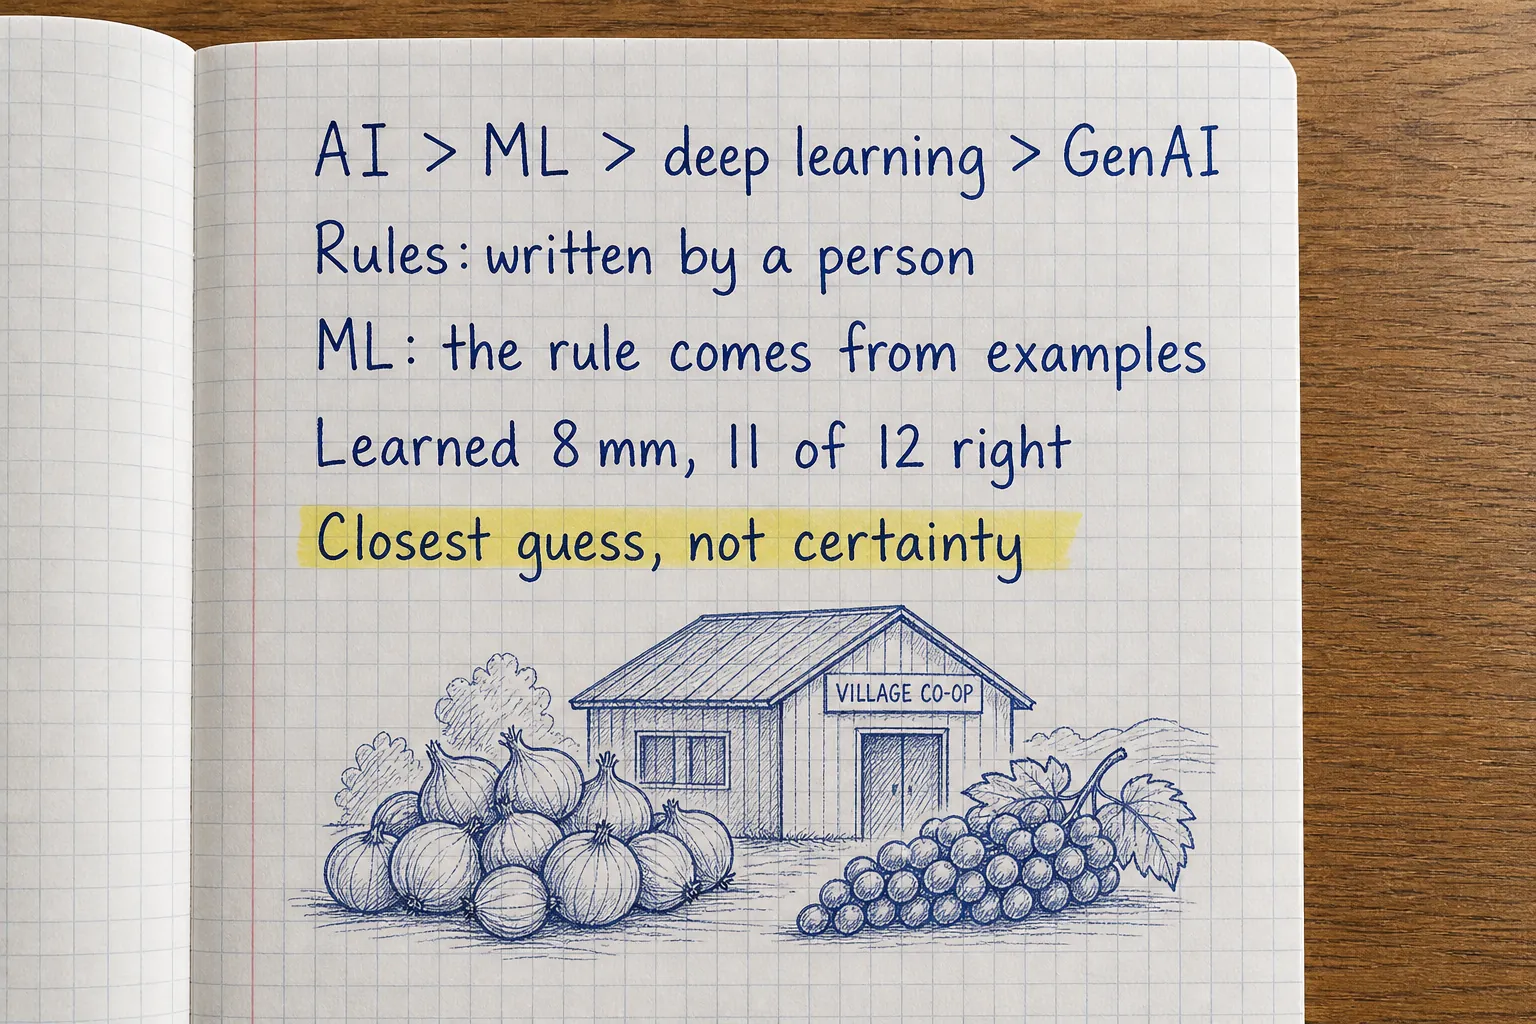
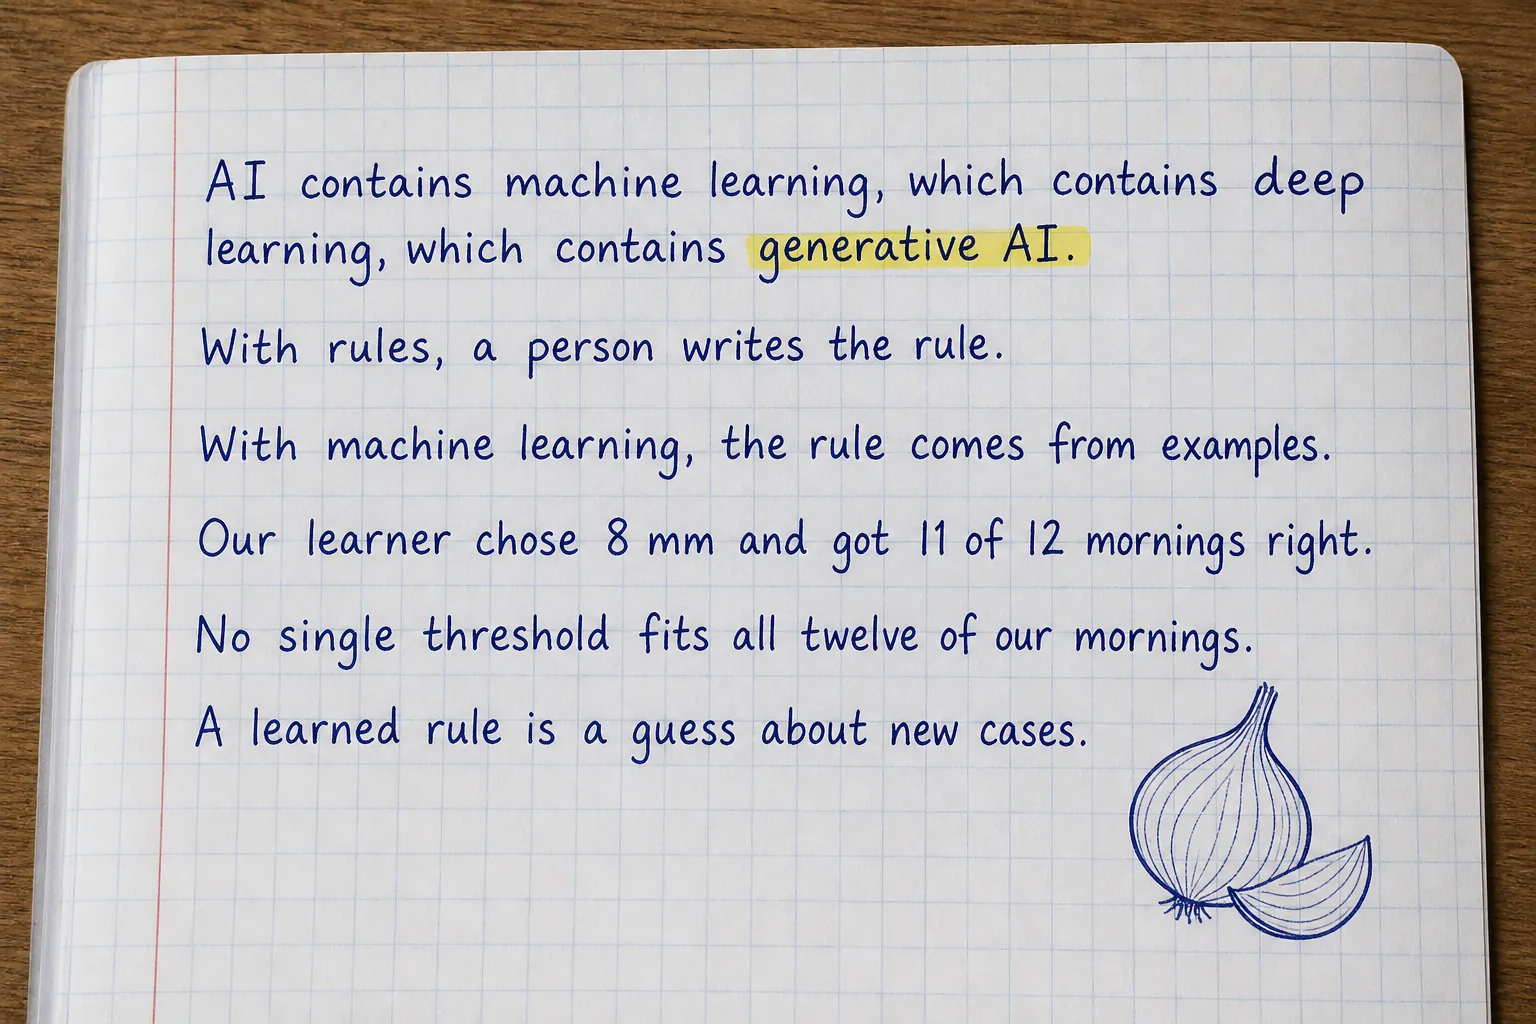
LangChain chapter 1 rewritten: plain and fuller, a still picture of the four fields, claims checked and corrected

diff --git a/frontend/src/lesson/Diagrams.tsx b/frontend/src/lesson/Diagrams.tsx
@@ -2290,19 +2290,30 @@ function LcChatRequest() {
 }
 
 function LcAiCircles() {
+  // Still (owner, 25 November): each field inside the one before, with this course's own example of each.
+  const rings: [number, string, string, string][] = [
+    [0, "Artificial intelligence", "any program doing something we call intelligent", "Navin's hand-written rules (this chapter)"],
+    [1, "Machine learning", "the rule is learned from examples", "the 8 mm rain threshold (this chapter)"],
+    [2, "Deep learning", "learning with neural networks of many layers", "spotting a sick grape leaf in a photo"],
+    [3, "Generative AI", "models that create new text, images or code", "writing a reply to a farmer"],
+  ];
+  const inset = 22, top = 70;
   return (
-    <SketchNested
-      title="circles inside circles"
-      intro="Press Play to go from the biggest circle to the smallest."
-      label="artificial intelligence contains machine learning, which contains deep learning, which contains generative AI; a large language model sits in the smallest circle"
-      steps={[
-        { label: "Artificial intelligence", says: "Any program doing something we would call intelligent: even Navin's hand-written rules." },
-        { label: "Machine learning", says: "The rule is learned from examples, not written: like the 8 mm rain threshold." },
-        { label: "Deep learning", says: "Machine learning with neural networks of many layers: telling a healthy grape leaf from a diseased one." },
-        { label: "Generative AI", says: "Deep learning models that create new text, images or code." },
-        { label: "LLM", says: "A large language model lives in the smallest circle: it is all four at once." },
-      ]}
-    />
+    <Svg viewBox="0 0 440 420" label="Artificial intelligence contains machine learning, which contains deep learning, which contains generative AI; a large language model sits inside generative AI">
+      {rings.map(([i, name, means, eg]) => {
+        const x = i * inset, y = i * top, w = 440 - 2 * x, h = 418 - y - i * 12;
+        return (
+          <g key={name}>
+            <g className={`dg-box dg-${i === 3 ? "accent" : i % 2 ? "copy" : "plain"}`}><rect x={x + 1} y={y + 1} width={w - 2} height={h - 2} rx={18} /></g>
+            <text className="dg-label" x={x + 14} y={y + 22}>{name}</text>
+            <text className="dg-note" x={x + 14} y={y + 40}>{means}</text>
+            <text className="dg-note" x={x + 14} y={y + 58} style={{ opacity: 0.75 }}>e.g. {eg}</text>
+          </g>
+        );
+      })}
+      <Box x={90} y={300} w={260} h={44} label="a large language model (Navin's)" tone="highlight" />
+      <text className="dg-note" x={220} y={364} textAnchor="middle">it sits in all four circles at once</text>
+    </Svg>
   );
 }
 

diff --git a/labs/langchain/chapters/01-ai-basics.md b/labs/langchain/chapters/01-ai-basics.md
@@ -6,13 +6,15 @@ four days after spraying?" Two people answer them, and on a harvest morning both
 In this course you build **Navin**, the co-op's help desk assistant. By the last chapter Navin answers members in
 plain words from the co-op's real facts and rules, uses tools to look up rates and book cold storage, reads a photo of
 a sick leaf, remembers each farmer, asks the manager before a big booking, and runs as a web service. You build it with
-**LangChain**, the most used Python library for applications that talk to language models.
+**LangChain**, one of the most widely used Python libraries for building applications on top of language models. A
+**language model** is a program trained on a huge amount of text to continue text: given words, it predicts what
+comes next. Chapter 2 shows exactly how.
 
 But first: what does it mean for a program to "understand" a question at all? This chapter answers that with two tiny
 programs, one written by hand and one that learns.
 
-
-Onions and garlic in baskets at a market in Nashik, the district at the centre of India's onion trade, where the members of Navin's (fictional) co-op farm.
+Onions and garlic in baskets at a market in Nashik, the district at the centre of India's onion trade, where the
+members of Navin's (fictional) co-op farm.
 
 :::photo{src="/lesson-images/langchain/onion-seller-nashik.webp" alt="Round baskets heaped with red onions and white garlic at a street market, with red plastic crates behind" credit="AnantGujratiwtn" license="CC BY-SA 4.0" source="https://commons.wikimedia.org/wiki/File%3AOnion_seller_in_nashik.jpg"}
 Onions and garlic for sale in Nashik.
@@ -24,36 +26,46 @@ exactly where each one breaks.
 :::
 
 :::step{type=concept title="Four words, one inside the other"}
-People use four words as if they meant the same thing. They do not:
+People use four words as if they meant the same thing. They do not; each one sits inside the one before:
 
 | Word | Means | A co-op example |
 |---|---|---|
 | **Artificial intelligence (AI)** | Any program doing something we would call intelligent | A program that answers "office hours" questions with rules |
 | **Machine learning (ML)** | The program learns its rule from examples instead of being told | Learning from past mornings how much rain means "skip irrigation" |
-| **Deep learning** | Machine learning with neural networks of many layers | Recognising a diseased grape leaf in a photo |
+| **Deep learning** | Machine learning with **neural networks** of many layers | Recognising a diseased grape leaf in a photo |
 | **Generative AI** | Deep learning models that create new text, images or code | Writing a reply to a farmer's question in plain Marathi or English |
 
+A **neural network** is a program made of many small calculations connected in **layers**: each layer takes numbers
+in, multiplies them by learned values, and passes the result on. "Learning" means adjusting those values until the
+network's answers on the examples are good. "Deep" simply means many layers.
+
 :::diagram{name="lc-ai-circles"}
-AI is the biggest circle; machine learning sits inside it, deep learning inside that, and generative AI at the centre.
+Each circle sits inside the one before. A large language model, like the one behind Navin, is in the smallest circle,
+so it is all four at once.
 :::
 
 The step that matters most is the first one, from AI to machine learning: **who writes the rule**. In a rule-based
 program you write `if "rate" in message`. In machine learning you give examples and the program finds the rule. The
-language model behind Navin is the far end of that idea: nobody wrote a single rule about onions; it learned language
-from a large part of the internet.
+language model behind Navin is the far end of that idea: nobody wrote a single rule about onions; it learned from
+huge amounts of text, much of it from the web.
 :::
 
 :::step{type=history title="From checkers to ChatGPT"}
 :::before{title="Every rule by hand"}
-The name **artificial intelligence** was coined for a summer workshop at Dartmouth College in **1956**. For decades
-most AI was rules, typed by experts, and every situation nobody had a rule for simply had no answer.
+The name **artificial intelligence** was coined in John McCarthy's 1955 proposal for a summer workshop at Dartmouth
+College, held in **1956**. For decades most AI was rules, typed by experts, and every situation nobody had a rule for
+simply had no answer.
 :::
 
-In **1959** Arthur Samuel at IBM described a program that played checkers better the more games it played, and gave
-the idea its name: **machine learning**, "the field of study that gives computers the ability to learn without being
-explicitly programmed". In **2012** a neural network called **AlexNet**, by Alex Krizhevsky, Ilya Sutskever and Geoffrey
-Hinton, won the ImageNet image-recognition contest by a wide margin, and deep learning took over. On **30 November
-2022** OpenAI released **ChatGPT**, and generative AI reached a hundred million people within weeks.
+In **1959** Arthur Samuel at IBM published "Some Studies in **Machine Learning** Using the Game of Checkers", about a
+program that played checkers better the more games it played. That paper made the name stick. (The famous definition,
+"the ability to learn without being explicitly programmed", is a later summary of his idea, not a sentence from the
+paper.)
+
+In **2012** a neural network called **AlexNet**, by Alex Krizhevsky, Ilya Sutskever and Geoffrey Hinton, won the
+ImageNet image-recognition contest by a wide margin, and deep learning took over. On **30 November 2022** OpenAI
+released **ChatGPT**; by an estimate from the bank UBS it had about a hundred million users two months later, faster
+than any app before it.
 
 :::solved
 **Rules nobody has to write.** Learned rules cover cases no person listed, which is why Navin will understand "kanda
@@ -62,19 +74,21 @@ measures again and again.
 :::
 
 :::timeline
-- **1956** "Artificial intelligence" named at Dartmouth.
-- **1959** Arthur Samuel names "machine learning".
+- **1956** The Dartmouth workshop names "artificial intelligence".
+- **1959** Arthur Samuel's checkers paper names "machine learning".
 - **2012** AlexNet: deep learning wins ImageNet.
 - **2022** ChatGPT.
 :::
 
-**Geoffrey Hinton**, one of the three authors of AlexNet, shared the 2024 Nobel Prize in Physics for the work that made neural networks learn.
+**Geoffrey Hinton**, one of the three authors of AlexNet, shared the 2024 Nobel Prize in Physics with John Hopfield,
+"for foundational discoveries and inventions that enable machine learning with artificial neural networks".
 
 :::photo{src="/lesson-images/langchain/geoffrey-hinton.webp" alt="Geoffrey Hinton, grey-haired, in a dark jacket, speaking at a press conference" credit="Arthur Petron" license="CC BY-SA 4.0" source="https://commons.wikimedia.org/wiki/File%3AGeoffrey_E._Hinton%2C_2024_Nobel_Prize_Laureate_in_Physics_%28cropped1%29.jpg"}
 Geoffrey Hinton at the 2024 Nobel Prize press conference.
 :::
 
-Arthur Samuel's checkers program, the one that gave machine learning its name, ran on an **IBM 701**, IBM's first commercial scientific computer (1952). This is its operator's console.
+Arthur Samuel's checkers program, the one in that 1959 paper, first ran on an **IBM 701**, IBM's first commercial
+scientific computer (1952). This is its operator's console.
 
 :::photo{src="/lesson-images/langchain/ibm-701.webp" alt="The grey operator's console of an IBM 701 computer, with rows of small lights and push buttons" credit="Dan" license="CC BY 2.0" source="https://commons.wikimedia.org/wiki/File%3AIBM_701console.jpg"}
 The operator's console of an IBM 701.
@@ -92,28 +106,50 @@ def loan_reply(message: str) -> str:
     return "Sorry, I only know about loans."
 ```
 
-Lower-casing first is the one trick rules always need: people type however they like.
+Line by line:
+
+- `message.lower()` makes a lower-case copy, so the rule matches however the person typed. Nearly every word rule
+  needs this.
+- `"loan" in text` is True when the text contains the letters "loan" anywhere (so "loans" matches too).
+- `or` means either word is enough.
+- The last `return` is the answer when no rule matched: a rule-based program needs one for everything it does not know.
+
+(The loan figures are made up for this example.)
 :::
 
 :::step{type=task task=rule_reply title="Your turn: a rule-based help desk" file="01-ai-basics/rules.py" line="8-11"}
-Finish `rule_reply(message)`: lower-case the message; if it mentions `office` or `open`, return `OFFICE`; if it mentions
-`price` or `rate`, return `ONION`; otherwise return `UNKNOWN`.
+Finish `rule_reply(message)`:
+
+1. Lower-case the message.
+2. If it mentions `office` or `open`, return `OFFICE`.
+3. Else, if it mentions `price` or `rate`, return `ONION`.
+4. Otherwise return `UNKNOWN`.
+
+`OFFICE`, `ONION` and `UNKNOWN` are already defined at the top of the file.
+
+The usual slips:
+
+- Checking the message before lower-casing it: "What is the RATE?" then finds nothing.
+- Returning the strings `"OFFICE"` (in quotes) instead of the names `OFFICE`: the farmer would get the word "OFFICE".
 
 Press **Check**.
 :::
 
 :::step{type=concept title="Learning a rule from examples" file="01-ai-basics/learn.py" line="7-20"}
-Now the other way. `EXAMPLES` holds twelve real-looking mornings: millimetres of rain overnight, and whether the farmer
-skipped irrigating that day. The rule we want has the shape "skip when rain >= *threshold*", but nobody knows the
-threshold.
+Now the other way. `EXAMPLES` holds twelve made-up mornings: millimetres of rain overnight, and whether the farmer
+skipped irrigating that day. The rule we want has the shape "skip when rain >= *threshold*", where the **threshold**
+is the dividing line. Nobody knows it yet.
 
 So the program **tries every candidate** and keeps the one that explains the examples best. `accuracy(threshold,
-examples)` (already written) counts how many examples a threshold gets right:
+examples)` (already written) counts the share of examples a threshold gets right; that share is its **accuracy**.
+Some of the real values, from the lab's own code:
 
 | Threshold | Gets right | Accuracy |
 |---|---|---|
 | 5 mm | 9 of 12 | 75% |
+| 6 mm | 10 of 12 | 83% |
 | 8 mm | 11 of 12 | 92% |
+| 9 mm | 10 of 12 | 83% |
 | 11 mm | 11 of 12 | 92% |
 
 8 and 11 tie. Our tie-break is "keep the smaller one". That is a choice a person makes, and real machine learning is
@@ -121,8 +157,16 @@ full of such choices: which examples, which shape of rule, what counts as best.
 :::
 
 :::step{type=task task=learn_threshold title="Your turn: learn the threshold" file="01-ai-basics/learn.py" line="17-20"}
-Finish `learn_threshold(examples)`: try every rain value in the examples (sorted, smallest first) as a threshold, keep
-the one with the highest `accuracy(...)`, and on a tie keep the smaller one.
+Finish `learn_threshold(examples)`:
+
+1. Make the list of candidates: every rain value in the examples, sorted, smallest first.
+2. For each candidate, compute `accuracy(candidate, examples)`.
+3. Keep the candidate with the highest accuracy. On a tie, keep the one you found first, which is the smaller one
+   because the list is sorted.
+4. Return it.
+
+The usual slip: replacing the best on a tie (`>=` instead of `>` when comparing), which keeps the larger threshold,
+11 mm.
 
 ```bash run
 cd /workspace/01-ai-basics && python main.py
@@ -146,8 +190,9 @@ The rules answered the two questions someone thought of, and failed both others:
 hours, and "kanda bhav?" is Marathi for "onion price?", but neither contains a word in a rule. You could add more rules
 forever.
 
-The learner found 8 mm by itself, and is right on 11 of the 12 mornings. The twelfth (9 mm, not skipped) no line can
-explain: real data always has exceptions. A threshold learned from twelve mornings is a guess about the thirteenth.
+The learner found 8 mm by itself, and is right on 11 of the 12 mornings. The one it gets wrong is the 9 mm morning when
+the farmer did not skip. No single threshold gets all twelve right: real data has exceptions. A threshold learned from
+twelve mornings is a guess about the thirteenth.
 :::
 
 :::step{type=predict title="Guess first"}
@@ -191,24 +236,24 @@ A language model is learning taken to the extreme: billions of examples instead 
 policy, a legal limit. Navin will learn to send those to plain Python (tools, chapter 12) and use the model for
 language.
 
-**Overfitting.** A rule that fits twelve examples perfectly may fail on the thirteenth. Machine learning tests a rule
-on examples it did not learn from; chapter 26 does the same for Navin's answers.
+**Overfitting.** A rule that fits its examples perfectly may fail on new ones; that is called overfitting. Machine
+learning tests a rule on examples it did not learn from; chapter 26 does the same for Navin's answers.
 
-**Where the twelve mornings come from.** In real projects, collecting good examples is most of the work. A learned
-rule is only as good as its examples.
+**Where the examples come from.** In real projects, collecting good examples is most of the work. A learned rule is
+only as good as its examples.
 :::
 
 :::step{type=recap}
 You can now:
 
-- tell AI, machine learning, deep learning and generative AI apart;
+- tell AI, machine learning, deep learning and generative AI apart, and say what a neural network is;
 - write a rule-based reply, and say why it breaks;
 - learn a rule from examples by trying candidates and measuring accuracy;
 - explain why a language model needs no rule for "kanda bhav?".
 
 Next, chapter 2: what a model actually reads. Not words, but tokens.
 
-:::photo{src="/lesson-images/langchain/lc-01-notes.webp" alt="Handwritten notes about AI and machine learning: AI > ML > deep learning > GenAI; Rules: written by a person; ML: the rule comes from examples; Learned 8 mm, 11 of 12 right; Closest guess, not certainty" ai="true"}
+:::photo{src="/lesson-images/langchain/lc-01-notes.webp" alt="Handwritten notes about AI and machine learning: AI contains machine learning, which contains deep learning, which contains generative AI. With rules, a person writes the rule. With machine learning, the rule comes from examples. Our learner chose 8 mm and got 11 of 12 mornings right. No single threshold fits all twelve of our mornings. A learned rule is a guess about new cases." ai="true"}
 One page of notes for this chapter.
 :::
 :::

diff --git a/CHANGELOG.md b/CHANGELOG.md
@@ -1,5 +1,17 @@
 # Changelog
 
+## 25 November: LangChain chapter 1 rewritten (easy, a little detailed, checked)
+
+- Language model, neural network, layers, threshold and accuracy are explained where they first appear; the worked
+  rule is read line by line; tasks list their steps and the usual slips.
+- The circles animation is now a still picture: each field inside the one before, with this course's own example.
+- Checked by running the solution in a lab machine (outputs and every threshold's accuracy recomputed; the table now
+  shows five real rows). Corrected: the definition "without being explicitly programmed" is a later paraphrase, not
+  a sentence from Samuel's 1959 paper; ChatGPT's hundred million users is a UBS estimate about two months after launch,
+  not "within weeks"; Hinton's Nobel is now quoted as the citation says, shared with Hopfield; "the most used Python
+  library" became "one of the most widely used"; the name AI comes from McCarthy's 1955 proposal for the 1956
+  workshop. A new notes page.
+
 ## 25 November: Action mode can hide the lesson panel
 
 - The same sidebar button as in Read mode, at the top right of the lesson panel, hides the whole panel: the editor and
